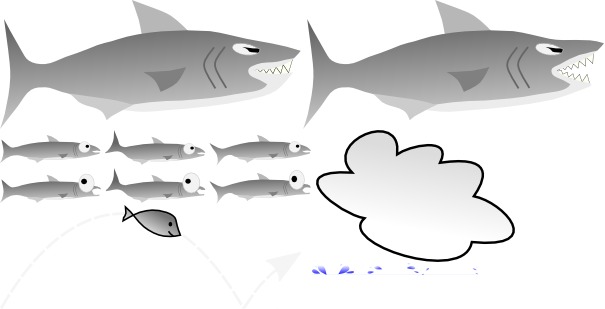
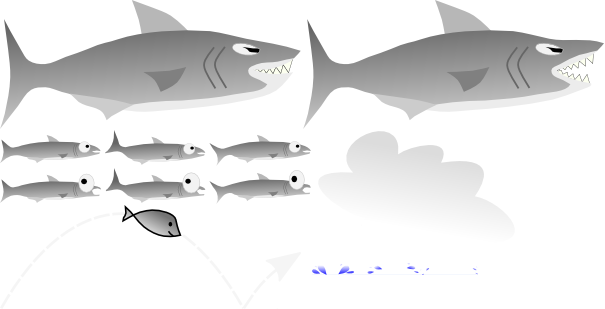
Removed the black border around the cloud, and fixed a bug that caused the text to become misaligned. #Release!

diff --git a/Assets/Game.cs b/Assets/Game.cs
@@ -78,6 +78,18 @@ public class Game : MonoBehaviour
 
 	private float targetCameraY;
 
+	private float titleOnscreenCenter;
+	private float titleOffscreenRight;
+	private float titleOffscreenLeft;
+
+	private float clickAnywhereOnscreenCenter;
+	private float clickAnywhereOffscreenRight;
+	private float clickAnywhereOffscreenLeft;
+
+	private float scoreOnscreenCenter;
+	private float scoreOffscreenRight;
+	private float scoreOffscreenLeft;
+
 	void Awake()
 	{
 	//	//audioSkip = AddAudio(clipSkip, false, false, 1.0f);
@@ -106,6 +118,18 @@ public class Game : MonoBehaviour
 			muteButton.Enabled = true;
 			audioSource.mute = true;
 		}
+		
+		titleOnscreenCenter = TitleTextTransform.position.x;
+		titleOffscreenRight = TitleTextTransform.position.x + UICanvas.pixelRect.xMax;
+		titleOffscreenLeft = TitleTextTransform.position.x - UICanvas.pixelRect.xMax;
+
+		clickAnywhereOnscreenCenter = ClickAnywhere.transform.position.x;
+		clickAnywhereOffscreenRight = ClickAnywhere.transform.position.x + UICanvas.pixelRect.xMax;
+		clickAnywhereOffscreenLeft = ClickAnywhere.transform.position.x - UICanvas.pixelRect.xMax;
+
+		scoreOnscreenCenter = LastScore.transform.position.x;
+		scoreOffscreenRight = LastScore.transform.position.x + UICanvas.pixelRect.xMax;
+		scoreOffscreenLeft = LastScore.transform.position.x - UICanvas.pixelRect.xMax;
 
 		// Move the score off-screen left
 		CurrentScoreText.transform.position = new Vector3(CurrentScoreText.transform.position.x - UICanvas.pixelRect.width, CurrentScoreText.transform.position.y);
@@ -139,7 +163,7 @@ public class Game : MonoBehaviour
 		maxAltitude = PlayerPrefs.GetFloat("maxAltitude", 0);
 		maxAirTime = TimeSpan.FromSeconds(PlayerPrefs.GetFloat("maxAirTime", 0));
 		gamesFinished = PlayerPrefs.GetInt("gamesFinished", 0);
-		
+
 
 		//Tweener.Tween(SkipperTrasnsformWrap, new { X = 0.5f }, 2)
 		//	.OnComplete(() => Tweener.Tween(SkipperTrasnsformWrap, new { X = 0f }, 1));
@@ -194,14 +218,22 @@ public class Game : MonoBehaviour
 
 					state = State.introScene;
 
-					Tweener.Tween(TextTitleTransformWrap, new{ X = TitleTextTransform.position.x + UICanvas.pixelRect.xMax }, 0.9f).Ease(Ease.QuadInOut);
-					Tweener.Tween(TextClickAnywhereTransformWrap, new { X = ClickAnywhere.rectTransform.rect.width + UICanvas.pixelRect.width }, 0.6f).Ease(Ease.QuadInOut);
+
+					//Tweener.Tween(TextTitleTransformWrap, new{ X = TitleTextTransform.position.x + UICanvas.pixelRect.xMax }, 0.9f).Ease(Ease.QuadInOut);
+					//Tweener.Tween(TextClickAnywhereTransformWrap, new { X = ClickAnywhere.rectTransform.rect.width + UICanvas.pixelRect.width }, 0.6f).Ease(Ease.QuadInOut);
+
+					Tweener.Tween(TextTitleTransformWrap, new { X = titleOffscreenRight }, 0.9f).Ease(Ease.QuadInOut);
+					Tweener.Tween(TextClickAnywhereTransformWrap, new { X = clickAnywhereOffscreenRight }, 0.6f).Ease(Ease.QuadInOut);
 
 					if (!firstPlay)
 					{
-						Tweener.Tween(LastTransformWrap, new { X = LastTransformWrap.X + UICanvas.pixelRect.width }, 0.6f).Ease(Ease.QuadInOut).OnComplete(() => { LastTransformWrap.X -= (UICanvas.pixelRect.width * 2f); });
-						Tweener.Tween(BestTransformWrap, new { X = BestTransformWrap.X + UICanvas.pixelRect.width }, 0.6f).Ease(Ease.QuadInOut).OnComplete(() => { BestTransformWrap.X -= (UICanvas.pixelRect.width * 2f); });
-						Tweener.Tween(NewRecordTransformWrap, new { X = NewRecordTransformWrap.X + UICanvas.pixelRect.width }, 0.6f).Ease(Ease.QuadInOut).OnComplete(() => { NewRecordTransformWrap.X -= (UICanvas.pixelRect.width * 2f); });
+						//Tweener.Tween(LastTransformWrap, new { X = LastTransformWrap.X + UICanvas.pixelRect.width }, 0.6f).Ease(Ease.QuadInOut).OnComplete(() => { LastTransformWrap.X -= (UICanvas.pixelRect.width * 2f); });
+						//Tweener.Tween(BestTransformWrap, new { X = BestTransformWrap.X + UICanvas.pixelRect.width }, 0.6f).Ease(Ease.QuadInOut).OnComplete(() => { BestTransformWrap.X -= (UICanvas.pixelRect.width * 2f); });
+						//Tweener.Tween(NewRecordTransformWrap, new { X = NewRecordTransformWrap.X + UICanvas.pixelRect.width }, 0.6f).Ease(Ease.QuadInOut).OnComplete(() => { NewRecordTransformWrap.X -= (UICanvas.pixelRect.width * 2f); });
+
+						Tweener.Tween(LastTransformWrap, new { X = scoreOffscreenRight }, 0.6f).Ease(Ease.QuadInOut).OnComplete(() => { LastTransformWrap.X = scoreOffscreenLeft; });
+						Tweener.Tween(BestTransformWrap, new { X = scoreOffscreenRight }, 0.6f).Ease(Ease.QuadInOut).OnComplete(() => { BestTransformWrap.X = scoreOffscreenLeft; });
+						Tweener.Tween(NewRecordTransformWrap, new { X = scoreOffscreenRight }, 0.6f).Ease(Ease.QuadInOut).OnComplete(() => { NewRecordTransformWrap.X = scoreOffscreenLeft; });
 					}
 
 					skipper.renderer.enabled = true;
@@ -383,9 +415,13 @@ public class Game : MonoBehaviour
 			                   Tweener.Tween(CurrentScoreTextTransformWrap, new{ X = CurrentScoreTextTransformWrap.X + UICanvas.pixelRect.width }, 1).Ease(Ease.QuadOut).OnComplete(() => { CurrentScoreTextTransformWrap.X -= (UICanvas.pixelRect.width * 2f); });
 
 			                   // Show your score
-			                   Tweener.Tween(LastTransformWrap, new{ X = LastTransformWrap.X + UICanvas.pixelRect.width }, 1f).Ease(Ease.QuadOut);
-			                   Tweener.Tween(BestTransformWrap, new{ X = BestTransformWrap.X + UICanvas.pixelRect.width }, 1f).Ease(Ease.QuadOut);
-			                   Tweener.Tween(NewRecordTransformWrap, new{ X = NewRecordTransformWrap.X + UICanvas.pixelRect.width }, 1f).Ease(Ease.QuadOut);
+							   //Tweener.Tween(LastTransformWrap, new{ X = LastTransformWrap.X + UICanvas.pixelRect.width }, 1f).Ease(Ease.QuadOut);
+							   //Tweener.Tween(BestTransformWrap, new{ X = BestTransformWrap.X + UICanvas.pixelRect.width }, 1f).Ease(Ease.QuadOut);
+							   //Tweener.Tween(NewRecordTransformWrap, new{ X = NewRecordTransformWrap.X + UICanvas.pixelRect.width }, 1f).Ease(Ease.QuadOut);
+
+							   Tweener.Tween(LastTransformWrap, new { X = scoreOnscreenCenter }, 1f).Ease(Ease.QuadOut);
+							   Tweener.Tween(BestTransformWrap, new { X = scoreOnscreenCenter }, 1f).Ease(Ease.QuadOut);
+							   Tweener.Tween(NewRecordTransformWrap, new { X = scoreOnscreenCenter }, 1f).Ease(Ease.QuadOut);
 
 			                   Tweener.Tween(failColorWrap, new{ A = 0 }, 0.5f).OnComplete(() =>
 			                                                                               {
@@ -396,10 +432,16 @@ public class Game : MonoBehaviour
 			                   // Move the camera up and show the main menu
 			                   ClickAnywhere.text = "(tap anywhere to restart)";
 			                   Tweener.Tween(CameraTransformWrap, new{ Y = 1 }, 1f).Ease(Ease.CubeInOut);
-			                   TextTitleTransformWrap.X = -(TitleTextTransform.rect.width + UICanvas.pixelRect.width);
-			                   TextClickAnywhereTransformWrap.X = -(ClickAnywhere.rectTransform.rect.width + UICanvas.pixelRect.width);
-			                   Tweener.Tween(TextTitleTransformWrap, new{ X = UICanvas.pixelRect.width / 2 }, 0.9f).Ease(Ease.QuadOut);
-			                   Tweener.Tween(TextClickAnywhereTransformWrap, new{ X = UICanvas.pixelRect.width / 2 }, 0.6f).Ease(Ease.QuadOut).OnComplete(() => state = State.mainMenu);
+
+							   //TextTitleTransformWrap.X = -(TitleTextTransform.rect.width + UICanvas.pixelRect.width);
+							   //TextClickAnywhereTransformWrap.X = -(ClickAnywhere.rectTransform.rect.width + UICanvas.pixelRect.width);
+							   //Tweener.Tween(TextTitleTransformWrap, new{ X = UICanvas.pixelRect.width / 2 }, 0.9f).Ease(Ease.QuadOut);
+							   //Tweener.Tween(TextClickAnywhereTransformWrap, new{ X = UICanvas.pixelRect.width / 2 }, 0.6f).Ease(Ease.QuadOut).OnComplete(() => state = State.mainMenu);
+
+							   TextTitleTransformWrap.X = titleOffscreenLeft;
+							   TextClickAnywhereTransformWrap.X = clickAnywhereOffscreenLeft;
+							   Tweener.Tween(TextTitleTransformWrap, new { X = titleOnscreenCenter }, 0.9f).Ease(Ease.QuadOut);
+							   Tweener.Tween(TextClickAnywhereTransformWrap, new { X = clickAnywhereOnscreenCenter }, 0.6f).Ease(Ease.QuadOut).OnComplete(() => state = State.mainMenu);
 		                   });
 
 
